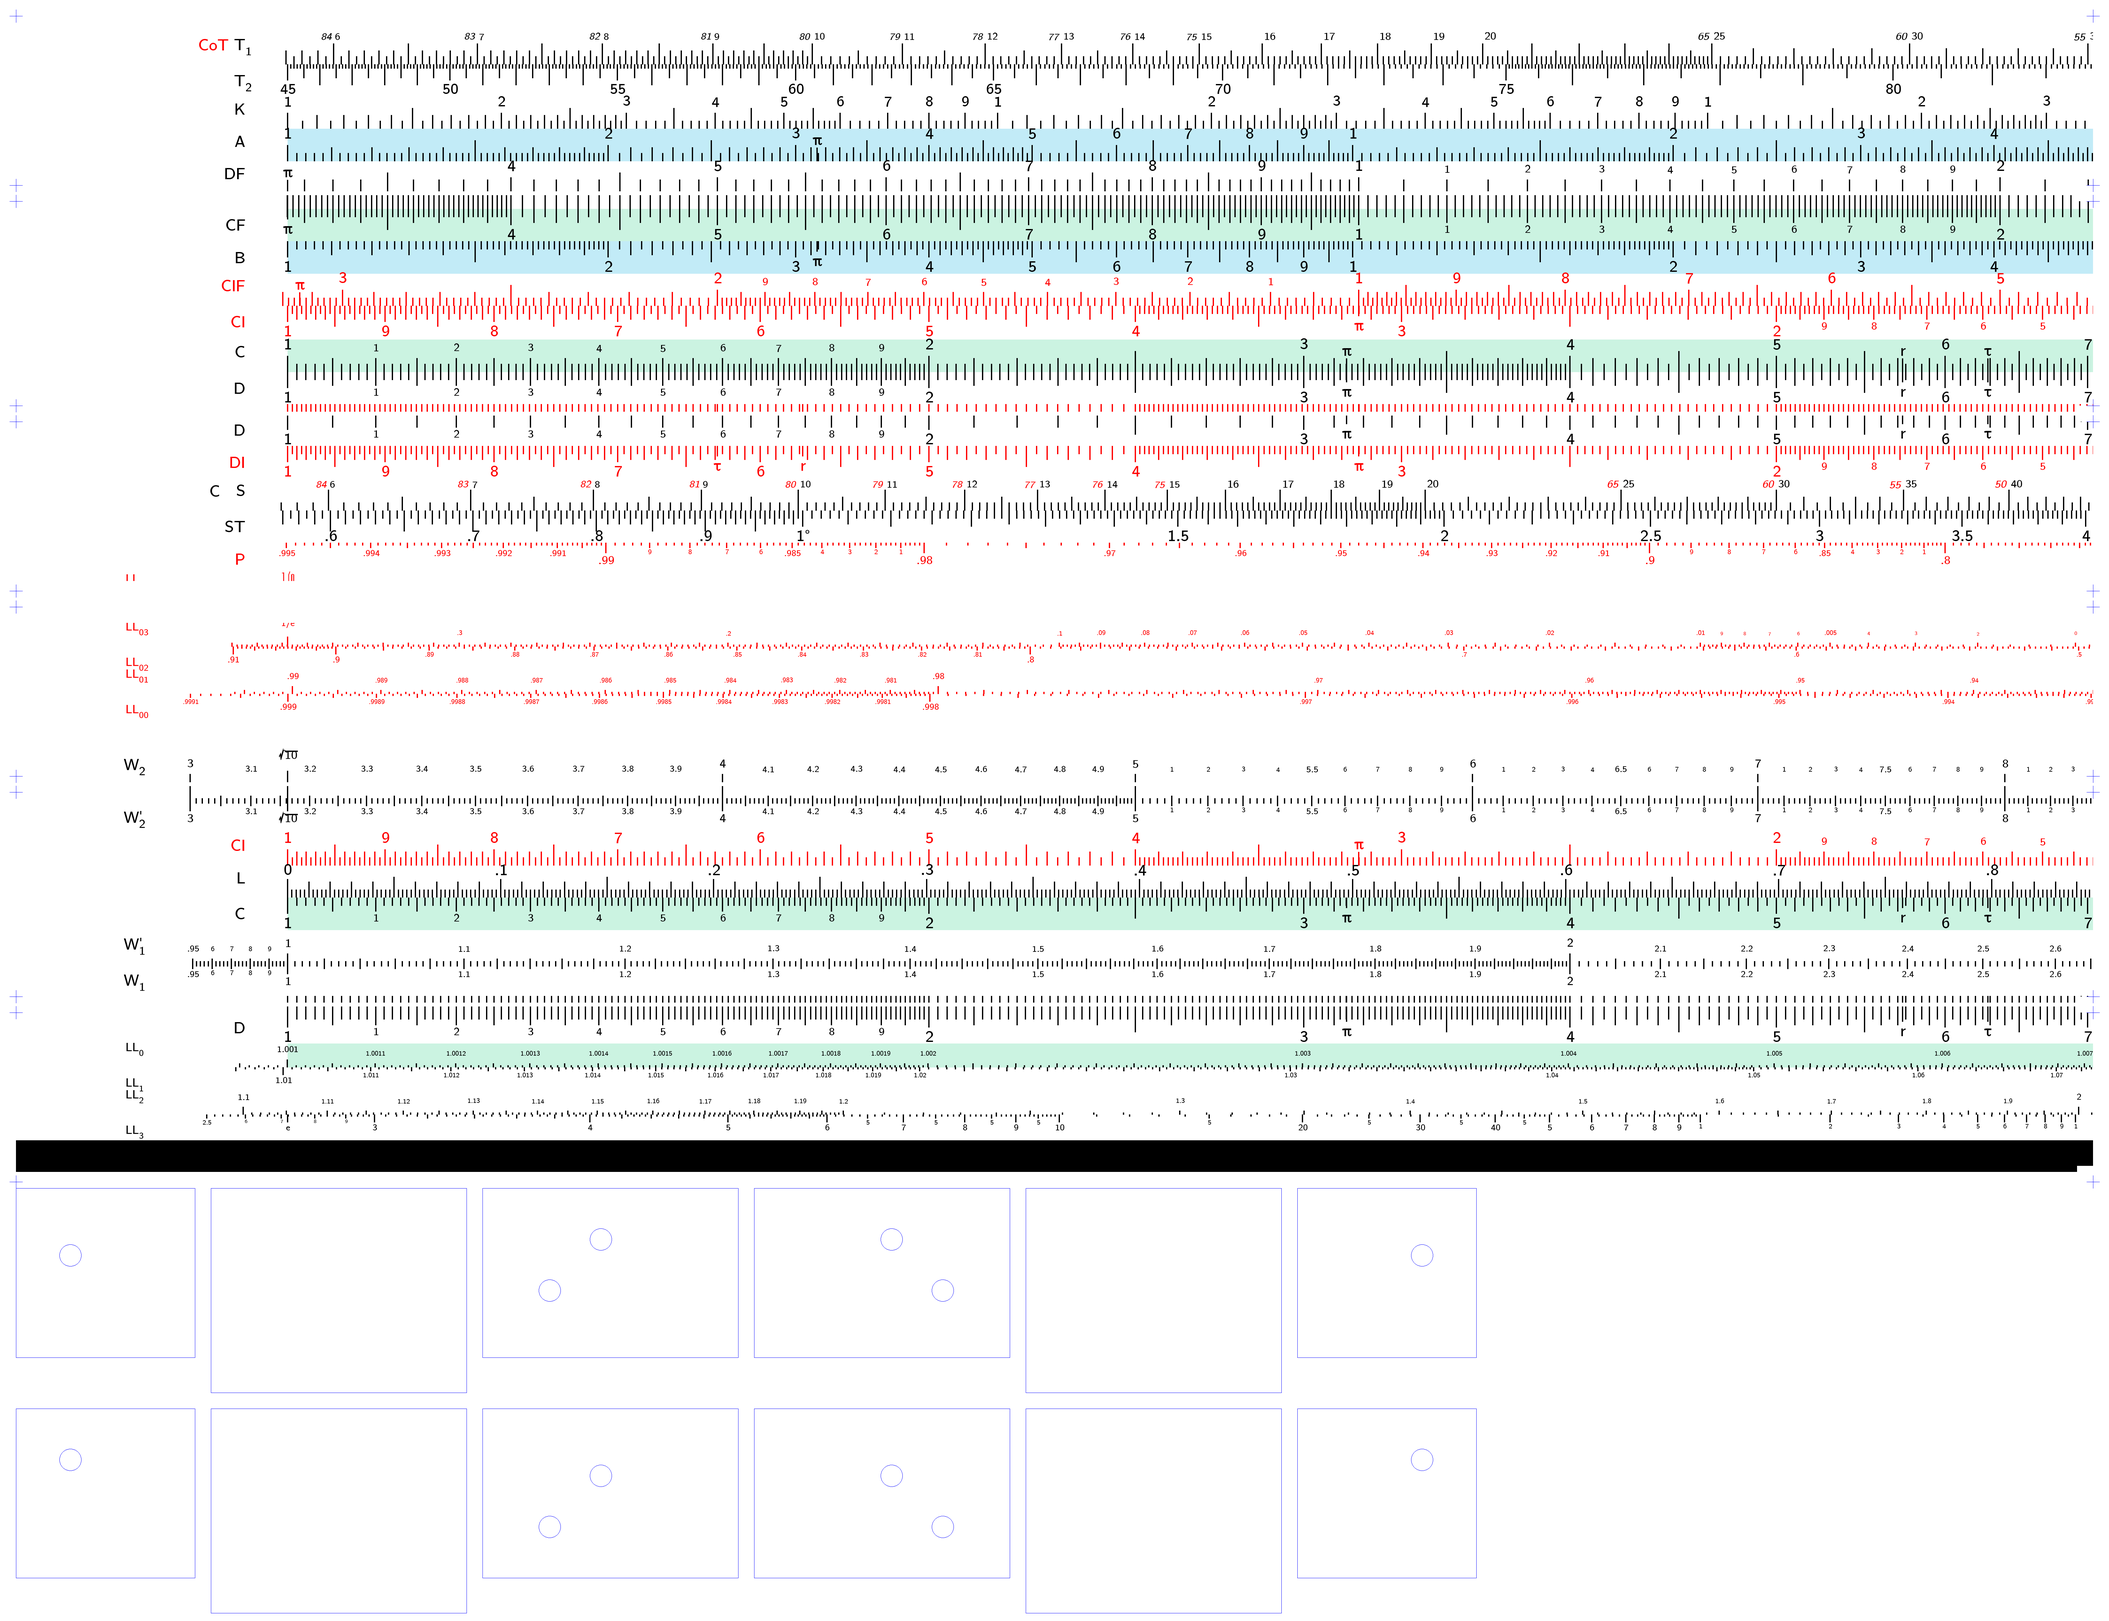
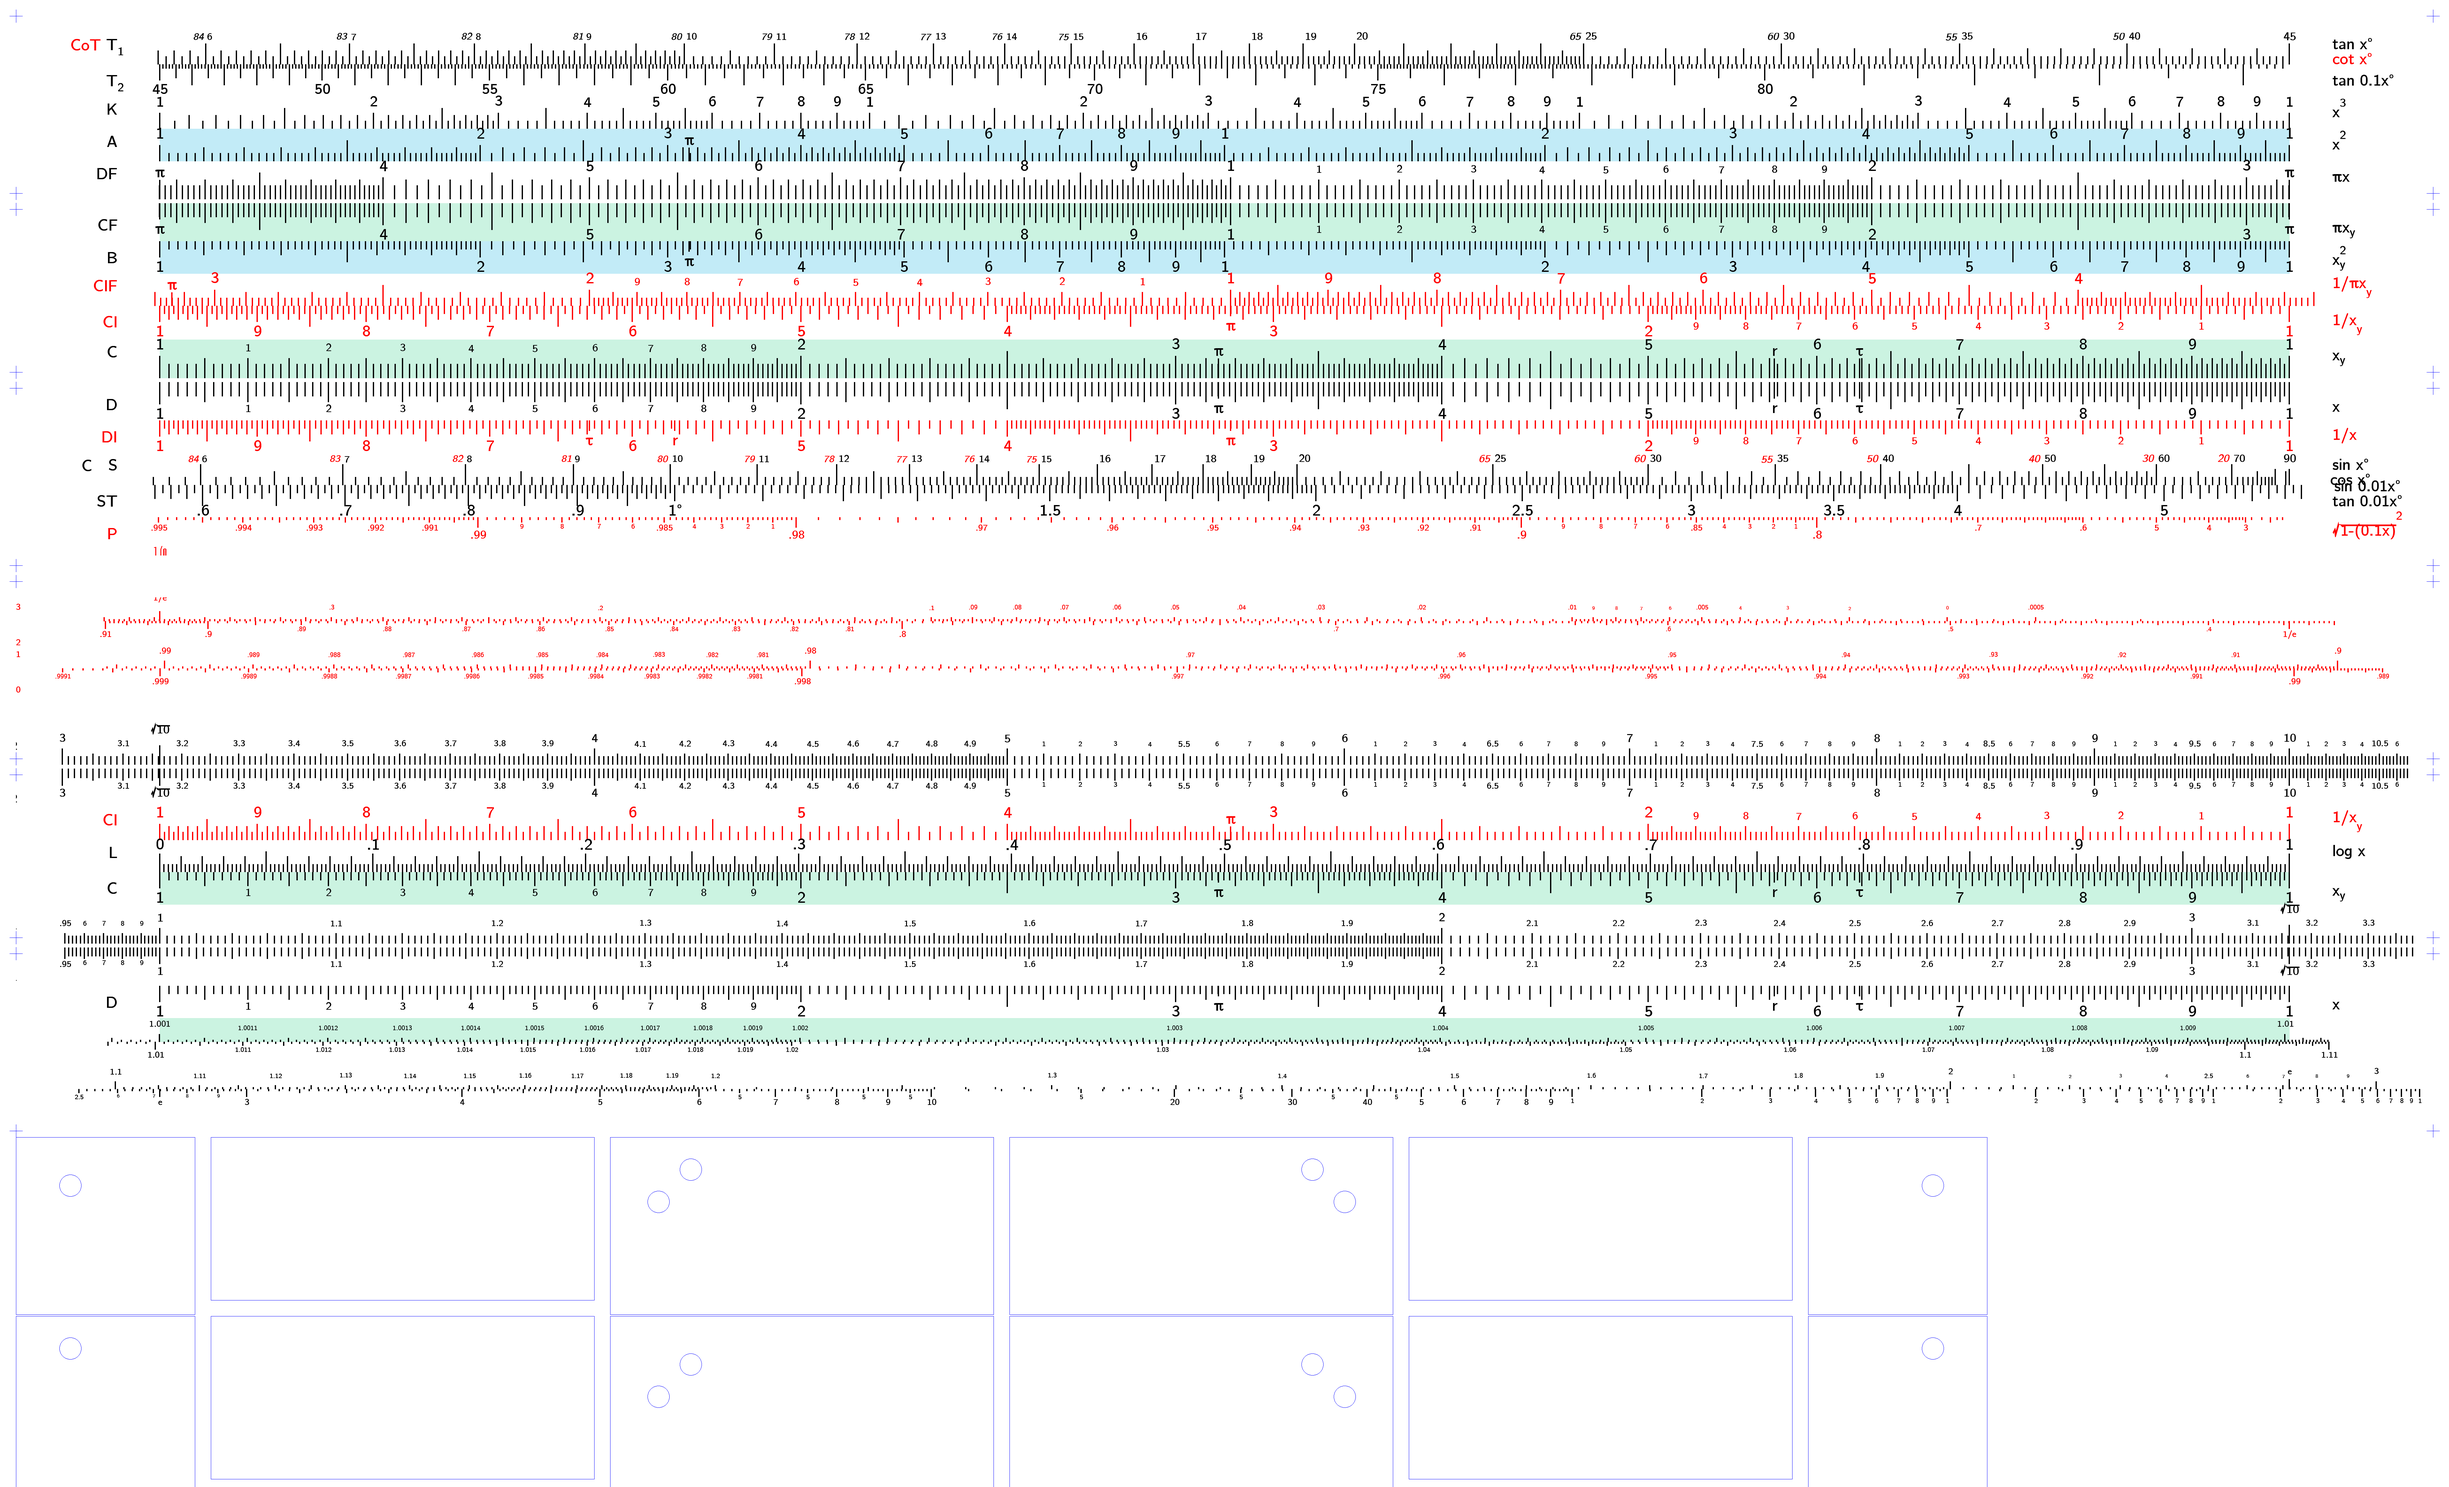
Stickerprint fixes: layout is now more parametrics. generate_model_demos now avoids a rendering error.
Remaining geometry issues may be related to model definitions; will pursue in a followup.

Changed region(s): [[0.0624, 0.0311, 0.9988, 0.3426], [0.0, 0.4984, 0.9988, 0.7476]]

diff --git a/SlideRule.py b/SlideRule.py
@@ -14,9 +14,9 @@ Table of Contents
    6. Models
    7. Commands
 """
-
 # ----------------------1. Setup----------------------------
 
+from copy import copy
 import inspect
 import math
 import re
@@ -871,14 +871,13 @@ class BleedDir(Enum):
     DOWN = 'down'
 
 
-def extend(image: Image, geom: Geometry, y: int, direction: BleedDir, amplitude: int):
+def extend(image: Image, total_w: int, y: int, direction: BleedDir, amplitude: int):
     """
     Used to create bleed for sticker cutouts
     y: pixel row to duplicate
     amplitude: number of pixels to extend
     """
-    w = geom.total_w
-    for x in range(0, w):
+    for x in range(0, total_w):
         bleed_color = image.getpixel((x, y))
         for yi in range(y - amplitude, y) if direction == BleedDir.UP else range(y, y + amplitude):
             image.putpixel((x, yi), bleed_color)
@@ -1821,7 +1820,7 @@ def render_sliderule_mode(model: Model, sliderule_img=None, borders: bool = Fals
     return sliderule_img
 
 
-def render_stickerprint_mode(model, sliderule_img):
+def render_stickerprint_mode(m: Model, sliderule_img: Image.Image):
     # Code Names
     # (fs) | UL,UM,UR [ ML,MM,MR ] LL,LM,LR |
     # (bs) | UL,UM,UR [ ML,MM,MR ] LL,LM,LR |
@@ -1832,56 +1831,55 @@ def render_stickerprint_mode(model, sliderule_img):
     o_y2 = 50  # y dir margins
     o_a = 50  # overhang amount
     ext = 20  # extension amount
-    geom = model.geometry
-    scale_w = 6500
-    geom_s = Geometry(
-        (scale_w, 1600),
-        Geometry.NO_MARGINS,
-        (scale_w, Geometry.SH),
-        Geometry.DEFAULT_TICK_WH,
-        640
-    )
-    style = model.style
-    scale_h = geom_s.SH
-    total_w = scale_w + 2 * o_x2
-    total_h = 5075
-    stickerprint_img = image_for_rendering(model, w=total_w, h=total_h)
-    r = Renderer.make(stickerprint_img, geom_s, style)
+    geom = m.geometry
+    x_off = (geom.side_w - geom.SL - 900) // 2
+    scale_w = geom.side_w - x_off * 2
+    scale_h = geom.SH
+    geom_s = copy(geom)
+    geom_s.side_w = scale_w
+    # geom_s.SL = scale_w
+    geom_s.oX = 0
+    geom_s.oY = 0
+    style = m.style
     # fsUM,MM,LM:
     y = 0
     y += o_y2 + o_a
-    x_off = 750
     x_left = geom.oX + x_off
-    slide_h = geom_s.slide_h
-    stator_h = geom_s.stator_h
+    slide_h = geom.slide_h
+    stator_h = geom.stator_h
+    total_w = scale_w + 2 * o_x2
+    sticker_row_h = max(slide_h, stator_h)
+    total_h = (geom.side_h + 2 * o_a) * 2 + o_a * 5 + sticker_row_h * 2 + 145
+    stickerprint_img = image_for_rendering(m, w=total_w, h=total_h)
+    r = Renderer.make(stickerprint_img, geom_s, style)
     transcribe(sliderule_img, stickerprint_img, x_left, geom.oY, scale_w, stator_h, o_x2, y)
-    extend(stickerprint_img, geom_s, y + stator_h - 1, BleedDir.DOWN, ext)
+    extend(stickerprint_img, scale_w, y + stator_h - 1, BleedDir.DOWN, ext)
     r.draw_corners(o_x2, y - o_a, o_x2 + scale_w, y + stator_h)
     y += stator_h + o_a
     transcribe(sliderule_img, stickerprint_img, x_left, geom.oY + stator_h + 1, scale_w, slide_h, o_x2, y)
-    extend(stickerprint_img, geom_s, y + 1, BleedDir.UP, ext)
-    extend(stickerprint_img, geom_s, y + slide_h - 1, BleedDir.DOWN, ext)
+    extend(stickerprint_img, scale_w, y + 1, BleedDir.UP, ext)
+    extend(stickerprint_img, scale_w, y + slide_h - 1, BleedDir.DOWN, ext)
     r.draw_corners(o_x2, y, o_x2 + scale_w, y + slide_h)
     y += slide_h + o_a
     transcribe(sliderule_img, stickerprint_img, x_left, geom.oY + geom.side_h - stator_h, scale_w, stator_h, o_x2, y)
-    extend(stickerprint_img, geom_s, y + 1, BleedDir.UP, ext)
-    extend(stickerprint_img, geom_s, y + stator_h - 1, BleedDir.DOWN, ext)
+    extend(stickerprint_img, scale_w, y + 1, BleedDir.UP, ext)
+    extend(stickerprint_img, scale_w, y + stator_h - 1, BleedDir.DOWN, ext)
     r.draw_corners(o_x2, y, o_x2 + scale_w, y + stator_h + o_a)
     # bsUM,MM,LM:
     y += stator_h + o_a + o_a + o_a
     y_start = geom.oY + geom.side_h + geom.oY
     transcribe(sliderule_img, stickerprint_img, x_left, y_start, scale_w, stator_h, o_x2, y)
-    extend(stickerprint_img, geom_s, y + stator_h - 1, BleedDir.DOWN, ext)
+    extend(stickerprint_img, scale_w, y + stator_h - 1, BleedDir.DOWN, ext)
     r.draw_corners(o_x2, y - o_a, o_x2 + scale_w, y + stator_h)
     y += stator_h + o_a
     transcribe(sliderule_img, stickerprint_img, x_left, y_start + stator_h + 1 - 3, scale_w, slide_h, o_x2, y)
-    extend(stickerprint_img, geom_s, y + 1, BleedDir.UP, ext)
-    extend(stickerprint_img, geom_s, y + slide_h - 1, BleedDir.DOWN, ext)
+    extend(stickerprint_img, scale_w, y + 1, BleedDir.UP, ext)
+    extend(stickerprint_img, scale_w, y + slide_h - 1, BleedDir.DOWN, ext)
     r.draw_corners(o_x2, y, o_x2 + scale_w, y + slide_h)
     y += slide_h + o_a
-    transcribe(sliderule_img, stickerprint_img, x_left, y_start + geom_s.side_h - stator_h, scale_w, stator_h, o_x2, y)
-    extend(stickerprint_img, geom_s, y + 1, BleedDir.UP, ext)
-    extend(stickerprint_img, geom_s, y + stator_h - 1, BleedDir.DOWN, ext)
+    transcribe(sliderule_img, stickerprint_img, x_left, y_start + geom.side_h - stator_h, scale_w, stator_h, o_x2, y)
+    extend(stickerprint_img, scale_w, y + 1, BleedDir.UP, ext)
+    extend(stickerprint_img, scale_w, y + stator_h - 1, BleedDir.DOWN, ext)
     y_bottom = y + stator_h + o_a
     r.draw_corners(o_x2, y, o_x2 + scale_w, y_bottom)
     y_b = y_bottom + 20
@@ -1895,23 +1893,22 @@ def render_stickerprint_mode(model, sliderule_img):
          x_off + o_a, stator_h + o_a]
     ]
     box_x_mirror = 6.5 * o_a + box_w + 2 * x_off
-    for box in boxes:
-        (x0, y0, dx, dy) = box
+    for (x0, y0, dx, dy) in boxes:
         r.draw_box(x0, y0, dx, dy, Color.CUT)
         r.draw_box(x0, y0 + slide_h + o_a, dx, dy, Color.CUT)
 
         x0 = round(2 * box_x_mirror - x0 - dx)
 
         r.draw_box(x0, y0, dx, dy, Color.CUT)
-        r.draw_box(x0, y0 + slide_h + o_a, dx, dy, Color.CUT)
+        r.draw_box(x0, y0 + sticker_row_h + o_a, dx, dy, Color.CUT)
     points = [
         [2 * o_a + 120, y_b + o_a + scale_h],
         [6 * o_a + box_w + x_off + 2 * scale_h, y_b + scale_h],
         [6 * o_a + box_w + x_off + scale_h, y_b + 2 * scale_h],
 
         [2 * o_a + 120, y_b + slide_h + o_a + scale_h],
-        [6 * o_a + box_w + x_off + scale_h, y_b + 640 + o_a + o_a + 2 * scale_h],
-        [6 * o_a + box_w + x_off + 2 * scale_h, y_b + 640 + o_a + o_a + scale_h]
+        [6 * o_a + box_w + x_off + scale_h, y_b + slide_h + o_a + o_a + 2 * scale_h],
+        [6 * o_a + box_w + x_off + 2 * scale_h, y_b + slide_h + o_a + o_a + scale_h]
     ]
     hole_r = 34  # (2.5mm diameter screw holes) = math.ceil(0.25 * Geometry.PixelsPerCM / 2)
     for (p_x, p_y) in points:

diff --git a/generate_model_demos.py b/generate_model_demos.py
@@ -4,12 +4,16 @@ import os.path
 
 from SlideRule import (
     Models, Model, keys_of,
-    render_diagnostic_mode, render_sliderule_mode, render_stickerprint_mode
+    render_diagnostic_mode, render_sliderule_mode, render_stickerprint_mode, Mode
 )
 
 
 def main():
     args_parser = argparse.ArgumentParser()
+    args_parser.add_argument('--mode',
+                             choices=[m.value for m in Mode],
+                             default=None,
+                             help='Which mode to render (all by default)')
     args_parser.add_argument('--model',
                              choices=keys_of(Models),
                              default=None,
@@ -17,25 +21,28 @@ def main():
     cli_args = args_parser.parse_args()
     base_dir = os.path.relpath('examples/')
     os.makedirs(base_dir, exist_ok=True)
+    modes = [next(m for m in Mode if m.value == cli_args.mode)] if cli_args.mode else Mode
     for model_name in ([cli_args.model] if cli_args.model else keys_of(Models)):
         print(f'Building example outputs for: {model_name}')
         model = getattr(Models, model_name) or Model.from_toml_file(os.path.join(base_dir, f'Model-{model_name}.toml'))
 
-        diagnostic_img = render_diagnostic_mode(model)
-        diagnostic_filename = os.path.join(base_dir, f'{model_name}.Diagnostic.png')
-        diagnostic_img.save(diagnostic_filename)
-        print(f' Diagnostic output for: {model_name} at: {diagnostic_filename}')
-
-        sliderule_img = render_sliderule_mode(model, borders=True, cutoffs=True)
-        sliderule_filename = os.path.join(base_dir, f'{model_name}.SlideRuleScales.png')
-        sliderule_img.save(sliderule_filename, 'PNG')
-        print(f' SlideRuleScales output for: {model_name} at: {sliderule_filename}')
-
-        sliderule_stickers_img = render_sliderule_mode(model)
-        stickers_img = render_stickerprint_mode(model, sliderule_stickers_img)
-        stickers_filename = os.path.join(base_dir, f'{model_name}.StickerCut.png')
-        stickers_img.save(stickers_filename)
-        print(f' StickerCut output for: {model_name} at: {stickers_filename}')
+        if Mode.DIAGNOSTIC in modes:
+            diagnostic_img = render_diagnostic_mode(model)
+            diagnostic_filename = os.path.join(base_dir, f'{model_name}.Diagnostic.png')
+            diagnostic_img.save(diagnostic_filename)
+            print(f' Diagnostic output for: {model_name} at: {diagnostic_filename}')
+        elif Mode.RENDER in modes:
+            sliderule_img = render_sliderule_mode(model, borders=True, cutoffs=True)
+            sliderule_filename = os.path.join(base_dir, f'{model_name}.SlideRuleScales.png')
+            sliderule_img.save(sliderule_filename, 'PNG')
+            print(f' SlideRuleScales output for: {model_name} at: {sliderule_filename}')
+        elif Mode.STICKERPRINT in modes:
+            sliderule_img = render_sliderule_mode(model, cutoffs=True)
+            sliderule_stickers_img = render_sliderule_mode(model, sliderule_img)
+            stickers_img = render_stickerprint_mode(model, sliderule_stickers_img)
+            stickers_filename = os.path.join(base_dir, f'{model_name}.StickerCut.png')
+            stickers_img.save(stickers_filename)
+            print(f' StickerCut output for: {model_name} at: {stickers_filename}')
 
 
 if __name__ == '__main__':
